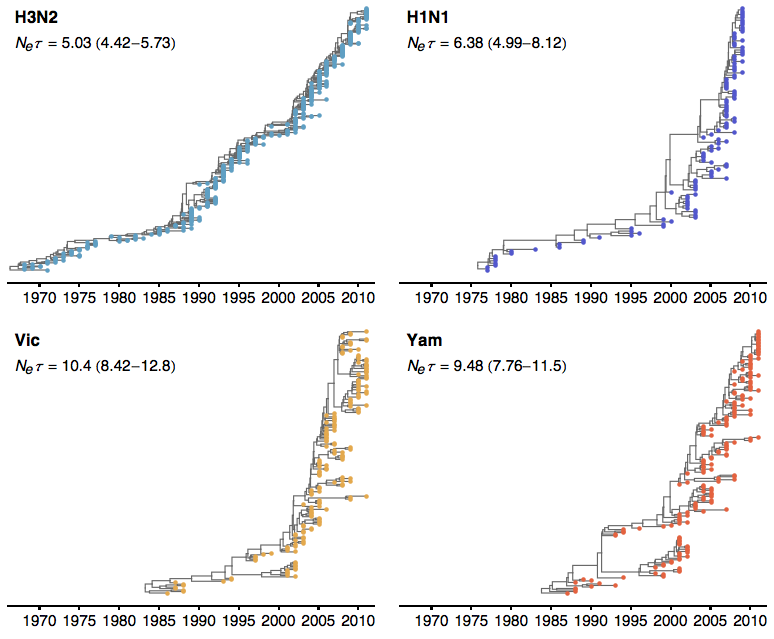
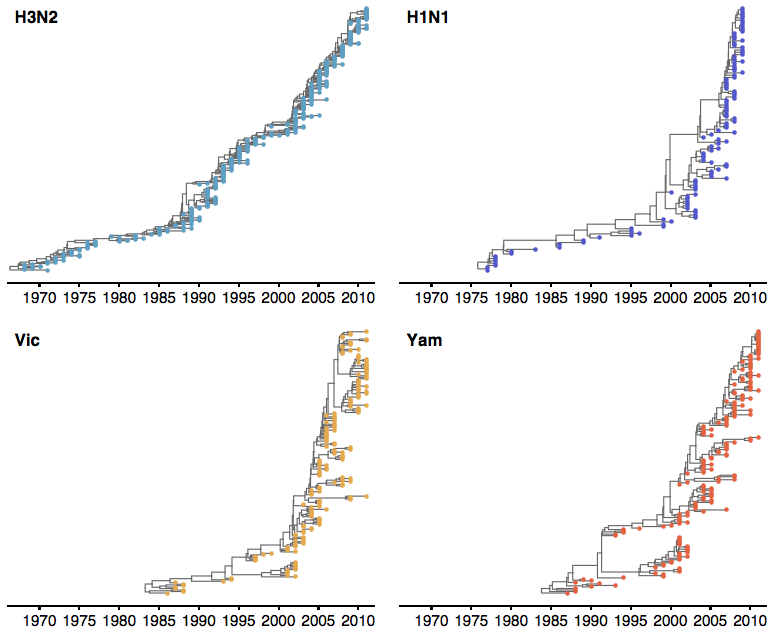
Work on issue #24, getting rid of branch-specific D.

diff --git a/flux.tex b/flux.tex
@@ -120,7 +120,7 @@ Influenza viruses undergo continual antigenic evolution allowing mutant viruses 
 Antigenic phenotype is often assessed through pairwise measurement of cross-reactivity between influenza strains using the hemagglutination inhibition (HI) assay.
 Here, we extend previous approaches to antigenic cartography, and simultaneously characterize antigenic and genetic evolution by modeling the diffusion of antigenic phenotype over a shared virus phylogeny.
 Using HI data from influenza A subtypes H3N2 and H1N1 and influenza B lineages Victoria and Yamagata, we determine patterns of antigenic drift across lineages and show that antigenic drift drives incidence rates and mediates interference between influenza lineages.
-Additionally, we describe the selective underpinnings of differences in antigenic drift across lineages.
+%Additionally, we describe the selective underpinnings of differences in antigenic drift across lineages.
 This work makes possible substantial future advances in investigating the dynamics of influenza and other antigenically-variable pathogens by providing a model that intimately combines molecular and antigenic evolution.
 
 \end{abstract}
@@ -287,7 +287,7 @@ Because of the threshold of sensitivity of the HI assay, it's difficult to disti
 To solve this problem of identifiability, we assumed a weak prior that favors linear movement in the 2D antigenic space (present in models 6 through 9; Table \ref{errortable}), with the slope of the linear relationship and the precision of the relationship incorporated into the Bayesian model (see Materials and methods).
 Because of this, we interpret map locations locally rather than globally, and assess rates of antigenic movement without making strong statements about the larger configuration under which the movement occurs.
  
-We find that influenza A/H3N2 evolved along antigenic dimension 1 at a rate of 1.01 antigenic units per year, with a 95\% highest posterior density (HPD) interval of 0.98--1.04 (Figure~\ref{drift}).
+We find that influenza A/H3N2 evolved along antigenic dimension 1 at an estimated rate of 1.01 antigenic units per year (Figure~\ref{drift}, Table~\ref{drifttable}).
 However, we observe occasional large jumps in antigenic phenotype (Figure~\ref{drift}), corresponding to cluster transitions identified by Smith et al. \cite{Smith04}.  
 Most variation is contained within the first antigenic dimension, but dimension 2 occasionally shows variation when two antigenically distinct lineages emerge and transiently coexist (Figure~\ref{map}), as is the case with the previously identified Beijing/89 and Beijing/92 clusters.
 
@@ -305,17 +305,35 @@ Most variation is contained within the first antigenic dimension, but dimension 
 	\label{drift} 
 \end{figure}
 
-We find that other clades of influenza evolved in antigenic phenotype substantially slower than A/H3N2 (Figure~\ref{drift}).
-Influenza A/H1N1 evolved at a rate of 0.62 units per year (HPD 0.56--0.67), but showing a similar pattern of punctuated antigenic evolution with occasional larger jumps in phenotype, such as the emergence of the Solomon Islands/06 cluster.  
-Influenza B/Victoria also evolved relatively slowly, with an average rates of 0.42 (HPD 0.32--0.51) units per year.
-Influenza B/Yamagata evolved slower still, with an average rate of 0.32 (HPD 0.25--0.39) units per year.
+We find that other clades of influenza evolved in antigenic phenotype substantially slower than A/H3N2 (Figure~\ref{drift}, Table~\ref{paramtable}).
+Influenza A/H1N1 evolved at a rate of 0.62 units per year, but showed a similar pattern of punctuated antigenic evolution with occasional larger jumps in phenotype, such as the emergence of the Solomon Islands/06 cluster.  
+Influenza B/Victoria and B/Yamagata evolved slower still, with mean estimated rates 0.42 units per year and 0.32 units per year, respectively.
 Punctuated evolution is less obvious in B/Yam and B/Vic compared to A/H3N2 and A/H1N1, but antigenic clusters are still apparent, with recent transitions to the Brisbane/08 cluster in B/Vic \cite{Barr10} and to the Wisconsin/10 cluster in B/Yam \cite{Klimov12}.
 Interestingly, a minor lineage of B/Vic, denoted B/Hubei-Songzi/51/2008 \cite{Barr10}, has persisted through 2011, while remaining antigenically distinct from B/Brisbane/60/2008 viruses (Figure~\ref{drift}).
+Interestingly, although we observe significantly different drift rates between lineages, we observe less variation in diffusion volatility (Table~\ref{paramtable}).
+This is reflected in Figure \ref{drift}, where all four lineages exhibit similar levels of standing antigenic variation, despite A/H3N2 drifting more quickly in antigenic phenotype.
+
+%%% paramtable %%%
+\begin{table}[h]
+	\centering
+	\caption{\textbf{Estimates of drift rate $\drift$ (in units per year), diffusion volatility $\virussd^2$ (in units$^2$ per year) and scaled effective population size $N_e\tau$ (in years) for influenza A/H3N2, A/H1N1, B/Vic and B/Yam including posterior means and 95\% highest posterior density intervals.}}
+	\label{paramtable}	
+	\begin{tabular}{ c c c c} 
+	\hline
+	Lineage	&	Drift $\drift$  	& 	Volatility $\virussd^2$	&	Effective pop size $N_e\tau$	\\
+	\hline		
+	A/H3N2	&	1.01 (0.98--1.04)	&	1.25 (0.98--2.35) 		&	5.03 (4.42--5.73)	\\
+	A/H1N1	&	0.62 (0.56--0.67)	&	0.92 (0.65--1.56) 		&	6.38 (4.99--8.12)	\\
+	B/Vic	&	0.42 (0.32--0.51)	&	1.22 (0.85--2.25) 		&	10.40 (8.42--12.80)	\\
+	B/Yam	&	0.32 (0.25--0.39)	&	0.71 (0.46--1.36) 		&	9.48 (7.76--11.50)	\\
+	\hline
+	\end{tabular}	
+\end{table}
 
 These patterns of antigenic drift are reflected in the virus phylogenies (Figure~\ref{trees}).
 Influenza A/H3N2 has characteristically spindly tree showing rapid turnover of the virus population, while A/H1N1 and B have trees that show greater degrees of viral coexistance (Figure~\ref{trees}).
 The scaled effective population size $N_e \tau$ measures the timescale of coalescence for a phylogeny and quantifies the visual distinction between a `spindly' tree and a `bushy' tree \cite{Bedford11}.
-Here, we see that $N_e \tau$ broadly correlates with the rate of antigenic drift with A/H3N2 showing fast drift and reduced effective population size (Figure~\ref{trees}), as expected from basic epidemiological models \cite{Bedford12}.
+Here, we see that $N_e \tau$ broadly correlates with the rate of antigenic drift (Table~\ref{paramtable}), with A/H3N2 showing fast drift and reduced effective population size as expected from basic epidemiological models \cite{Bedford12}.
 Antigenic drift results in the replacement of antigenically primitive lineages by antigenically advanced lineages, thereby reducing genealogical diversity.
 
 
@@ -423,52 +441,52 @@ Furthermore, these findings suggest that the predominant clade of a particular i
 However, this prediction would not be perfect, and 56\% of the variance in incidence remains unexplained by these estimates of antigenic drift.
 Some of this variance may be explained by incorporating geographic variation in year-to-year antigenic drift; although there exists significant geographic variation in clade-specific incidence \cite{Finkelman07}, we calculated antigenic drift from global samples, rather than USA-specific samples.
 
-\subsection*{Conversion of antigenic mutation into fixed differences}
+%\subsection*{Conversion of antigenic mutation into fixed differences}
 
-We observe a faster rate of antigenic drift in influenza A/H3N2 than in A/H1N1 or in either lineage of influenza B.
-Previous work using general epidemiological models has suggested that rates of antigenic drift may be influenced by both the fundamental reproductive number $R_0$ and the rate at which mutation decreases cross-immunity \cite{Gog02,Lin03}.
-Owing to these and similar findings, subsequent work ascribed differences in the evolution of A/H3N2 relative to A/H1N1 and influenza B to either greater $R_0$ or greater mutation rate \cite{Ferguson03,Bedford12}.
-Here, we examine the conversion of recently acquired antigenic mutation into fixed differences by comparing rates of antigenic diffusion to the degree of persistence on phylogeny branches in A/H3N2, A/H1N1, B/Vic and B/Yam (Table~\ref{diffusiontable}).
-To facilitate comparisons, we measure the diffusion coefficient $D$ \cite{Pybus12} characterizing the antigenic movement of each influenza lineage (see Materials and methods).
-This coefficient is measured in terms of units$^2$/year and can be used to determine the diffusion length scale, that is the expected relationship between time and distance traveled, which is $2 \sqrt{t D}$ for a two-dimensional diffusion.
-Higher diffusion coefficients mean a lineage is diffusing faster through antigenic space.
-We compare diffusion coefficients between trunk branches and side branches, where trunk branches are defined as branches ancestral to the most recent virus sample and side branches are defined as those branches not ancestral to the most recent virus sample.
+%We observe a faster rate of antigenic drift in influenza A/H3N2 than in A/H1N1 or in either lineage of influenza B.
+%Previous work using general epidemiological models has suggested that rates of antigenic drift may be influenced by both the fundamental reproductive number $R_0$ and the rate at which mutation decreases cross-immunity \cite{Gog02,Lin03}.
+%Owing to these and similar findings, subsequent work ascribed differences in the evolution of A/H3N2 relative to A/H1N1 and influenza B to either greater $R_0$ or greater mutation rate \cite{Ferguson03,Bedford12}.
+%Here, we examine the conversion of recently acquired antigenic mutation into fixed differences by comparing rates of antigenic diffusion to the degree of persistence on phylogeny branches in A/H3N2, A/H1N1, B/Vic and B/Yam (Table~\ref{diffusiontable}).
+%To facilitate comparisons, we measure the diffusion coefficient $D$ \cite{Pybus12} characterizing the antigenic movement of each influenza lineage (see Materials and methods).
+%This coefficient is measured in terms of units$^2$/year and can be used to determine the diffusion length scale, that is the expected relationship between time and distance traveled, which is $2 \sqrt{t D}$ for a two-dimensional diffusion.
+%Higher diffusion coefficients mean a lineage is diffusing faster through antigenic space.
+%We compare diffusion coefficients between trunk branches and side branches, where trunk branches are defined as branches ancestral to the most recent virus sample and side branches are defined as those branches not ancestral to the most recent virus sample.
 
 %%% diffusiontable %%%
-\begin{table}[h]
-	\centering
-	\caption{\textbf{Estimates of fundamental diffusion coefficient $D$ across influenza lineages and phylogenetic branches, including posterior means and 50\% highest posterior density intervals.}}
-	\label{diffusiontable}	
-	\begin{tabular}{ c c c c } 
-	\hline
-	Lineage	&	Trunk branch $D$ 	& 	Side branch $D$		& 	Ratio \\
-	\hline		
-	A/H3N2	&	0.90 (0.79--0.97)	&	0.62 (0.57--0.65)	&	1.45 (1.31--1.57) \\
-	A/H1N1	&	0.62 (0.50--0.71)	&	0.44 (0.38--0.48)	&	1.45 (1.18--1.70) \\
-	B/Vic	&	0.63 (0.51--0.71)	&	0.62 (0.54--0.68)	&	1.02 (0.87--1.14) \\
-	B/Yam	&	0.35 (0.29--0.40)	&	0.33 (0.28--0.36)	&	1.09 (0.93--1.23) \\
-	\hline
-	\end{tabular}	
-\end{table}
+%\begin{table}[h]
+%	\centering
+%	\caption{\textbf{Estimates of fundamental diffusion coefficient $D$ across influenza lineages and phylogenetic branches, including posterior means and 50\% highest posterior density intervals.}}
+%	\label{diffusiontable}	
+%	\begin{tabular}{ c c c c } 
+%	\hline
+%	Lineage	&	Trunk branch $D$ 	& 	Side branch $D$		& 	Ratio \\
+%	\hline		
+%	A/H3N2	&	0.90 (0.79--0.97)	&	0.62 (0.57--0.65)	&	1.45 (1.31--1.57) \\
+%	A/H1N1	&	0.62 (0.50--0.71)	&	0.44 (0.38--0.48)	&	1.45 (1.18--1.70) \\
+%	B/Vic	&	0.63 (0.51--0.71)	&	0.62 (0.54--0.68)	&	1.02 (0.87--1.14) \\
+%	B/Yam	&	0.35 (0.29--0.40)	&	0.33 (0.28--0.36)	&	1.09 (0.93--1.23) \\
+%	\hline
+%	\end{tabular}	
+%\end{table}
 
-Mutations must proceed through the sieve of natural selection, first appearing as transient differences restricted to side branches, while advantageous mutations will preferentially fix in the virus population and thus accrue on the trunk of the phylogeny.
-We expect the diffusion coefficient on side branches to more closely resemble the underlying rate of antigenic mutation, before selection can strongly influence observed rates.
-Here, we find that A/H3N2 and B/Vic have similar diffusion coefficients on side branches, which are larger than the diffusion coefficients of A/H1N1 and B/Yam (Table~\ref{diffusiontable}).
-Thus, we expect that new antigenic mutations may occur at a faster rate in A/H3N2 and B/Vic than in A/H1N1 or B/Yam.
-We find that trunk branches in both A/H3N2 and A/H1N1 evolve in antigenic phenotype faster than side branches (Table~\ref{diffusiontable}), suggesting that positive selection is promoting antigenic movement in these lineages.
-Interestingly, B/Vic and B/Yam show less of a signature of positive selection, with similar diffusion coefficients on trunk and side branches (Table~\ref{diffusiontable}).
-Thus, although drift forward along dimension 1 is driven by selection in all lineages (Figure~\ref{drift}), raw antigenic diffusion appears to be selected for more strongly in influenza A than in influenza B, giving influenza A an advantage in overall rate of antigenic drift.
-Additionally, it appears that A/H3N2 and B/Vic benefit from a greater influx of new antigenic mutations, giving them a similar advantage over their sister lineages A/H1N1 and B/Yam, respectively.
+%Mutations must proceed through the sieve of natural selection, first appearing as transient differences restricted to side branches, while advantageous mutations will preferentially fix in the virus population and thus accrue on the trunk of the phylogeny.
+%We expect the diffusion coefficient on side branches to more closely resemble the underlying rate of antigenic mutation, before selection can strongly influence observed rates.
+%Here, we find that A/H3N2 and B/Vic have similar diffusion coefficients on side branches, which are larger than the diffusion coefficients of A/H1N1 and B/Yam (Table~\ref{diffusiontable}).
+%Thus, we expect that new antigenic mutations may occur at a faster rate in A/H3N2 and B/Vic than in A/H1N1 or B/Yam.
+%We find that trunk branches in both A/H3N2 and A/H1N1 evolve in antigenic phenotype faster than side branches (Table~\ref{diffusiontable}), suggesting that positive selection is promoting antigenic movement in these lineages.
+%Interestingly, B/Vic and B/Yam show less of a signature of positive selection, with similar diffusion coefficients on trunk and side branches (Table~\ref{diffusiontable}).
+%Thus, although drift forward along dimension 1 is driven by selection in all lineages (Figure~\ref{drift}), raw antigenic diffusion appears to be selected for more strongly in influenza A than in influenza B, giving influenza A an advantage in overall rate of antigenic drift.
+%Additionally, it appears that A/H3N2 and B/Vic benefit from a greater influx of new antigenic mutations, giving them a similar advantage over their sister lineages A/H1N1 and B/Yam, respectively.
 
-In this context, it is especially interesting that adaptive evolution in the HA1 protein determined through analysis of nonsynonymous and synonymous substitutions is substantially stronger in A/H3N2 than in A/H1N1 \cite{Wolf06}; H3 appears to accumulate adaptive fixations at $\sim$150\% the rate of H1 \cite{Bhatt11}.
-Here, we observe that A/H3N2 has a diffusion coefficient $\sim$141\% greater than A/H1N1 along side branches of the phylogeny.
-These results suggest that the greater rate of adaptive fixation in A/H3N2 may be simply due to a greater abundance of new antigenic mutations to fix.
+%In this context, it is especially interesting that adaptive evolution in the HA1 protein determined through analysis of nonsynonymous and synonymous substitutions is substantially stronger in A/H3N2 than in A/H1N1 \cite{Wolf06}; H3 appears to accumulate adaptive fixations at $\sim$150\% the rate of H1 \cite{Bhatt11}.
+%Here, we observe that A/H3N2 has a diffusion coefficient $\sim$141\% greater than A/H1N1 along side branches of the phylogeny.
+%These results suggest that the greater rate of adaptive fixation in A/H3N2 may be simply due to a greater abundance of new antigenic mutations to fix.
 
-We suggest that the larger signal of positive selection for antigenic diffusion in influenza A relative to influenza B could be due to either a greater fundamental reproductive number $R_0$ or to pleiotropic effects associated with antigenic change.
-In the latter case, we expect that many antigenic variants may be at an inherent disadvantage against other strains from decreased protein function \cite{Kaverin04,Rudneva12} or other effects, even though they benefit from a transmission advantage mediated by host immunity.
-These mutations may not be promoted by natural selection to the same extent as antigenic variants that maintain functional equivalence.
-Additionally, other work has shown strong pleiotropic constraints in the evolution of oseltamivir resistance in A/H1N1 \cite{Bloom10}.
-Still, it is clear that more work is necessary to fully clarify the mechanistic underpinnings of the relative evolutionary success of different influenza lineages.
+%We suggest that the larger signal of positive selection for antigenic diffusion in influenza A relative to influenza B could be due to either a greater fundamental reproductive number $R_0$ or to pleiotropic effects associated with antigenic change.
+%In the latter case, we expect that many antigenic variants may be at an inherent disadvantage against other strains from decreased protein function \cite{Kaverin04,Rudneva12} or other effects, even though they benefit from a transmission advantage mediated by host immunity.
+%These mutations may not be promoted by natural selection to the same extent as antigenic variants that maintain functional equivalence.
+%Additionally, other work has shown strong pleiotropic constraints in the evolution of oseltamivir resistance in A/H1N1 \cite{Bloom10}.
+%Still, it is clear that more work is necessary to fully clarify the mechanistic underpinnings of the relative evolutionary success of different influenza lineages.
 
 %%% CONCLUSIONS %%%
 \section*{Conclusions}
@@ -738,50 +756,50 @@ Then, for each interval, $x$ and $y$ values are averaged across the sample of po
 We draw lines between these locations to approximate mean posterior diffusion paths.
 As virus lineages coalesce backwards through time down the phylogeny these diffusion paths will also coalesce.
 
-\subsection*{Estimation of diffusion coefficient}
+%\subsection*{Estimation of diffusion coefficient}
 
-The distance $d$ traveled by a diffusion is not a linear function of time interval $t$, and thus the `rate' of diffusion cannot be calculated following $r=d/t$.
-Assume we have a one-dimensional diffusion starting from $x_0 = 0$, so that
-\begin{equation}
-	X_t \sim \normal(0, \sigma^2 t),
-\end{equation}
-where $\sigma$ represents the diffusion volatility, and in this case, the expected squared displacement follows
-\begin{equation}
-	\mathrm{E}[X_t^2] = \sigma^2 t.
-\end{equation}
-In moving to a two-dimensional diffusion
-\begin{equation}
-	(X_t, Y_t) \sim \normal \left( \twomatrix{0}{0}, \fourmatrix{\sigma_x^2 t}{\rho \sigma_x \sigma_y t}{\rho \sigma_x \sigma_y t}{\sigma_y^2 t} \right),
-\end{equation}
-where $\sigma_x$ represents volatility in dimension 1, $\sigma_y$ represents volatility in dimension 2 and $\rho$ represents correlation,   expected squared displacement is equal to the sum of squared displacements in each dimension
-\begin{equation}
-	\mathrm{E}[X_t^2 + Y_t^2] = \sigma_x^2 t + \sigma_y^2 t.
-\end{equation}
-Such diffusions are often characterized with diffusion coefficient $D$.
-In this case
-\begin{equation}
-	D = \frac{\sigma_x^2 + \sigma_y^2}{4},
-\end{equation}
-so that expected squared displacement follows from $D$ alone
-\begin{equation}
-	\mathrm{E}[X_t^2 + Y_t^2] = 4 D t.
-\end{equation}
+%The distance $d$ traveled by a diffusion is not a linear function of time interval $t$, and thus the `rate' of diffusion cannot be calculated following $r=d/t$.
+%Assume we have a one-dimensional diffusion starting from $x_0 = 0$, so that
+%\begin{equation}
+%	X_t \sim \normal(0, \sigma^2 t),
+%\end{equation}
+%where $\sigma$ represents the diffusion volatility, and in this case, the expected squared displacement follows
+%\begin{equation}
+%	\mathrm{E}[X_t^2] = \sigma^2 t.
+%\end{equation}
+%In moving to a two-dimensional diffusion
+%\begin{equation}
+%	(X_t, Y_t) \sim \normal \left( \twomatrix{0}{0}, \fourmatrix{\sigma_x^2 t}{\rho \sigma_x \sigma_y t}{\rho \sigma_x \sigma_y t}{\sigma_y^2 t} \right),
+%\end{equation}
+%where $\sigma_x$ represents volatility in dimension 1, $\sigma_y$ represents volatility in dimension 2 and $\rho$ represents correlation,   expected squared displacement is equal to the sum of squared displacements in each dimension
+%\begin{equation}
+%	\mathrm{E}[X_t^2 + Y_t^2] = \sigma_x^2 t + \sigma_y^2 t.
+%\end{equation}
+%Such diffusions are often characterized with diffusion coefficient $D$.
+%In this case
+%\begin{equation}
+%	D = \frac{\sigma_x^2 + \sigma_y^2}{4},
+%\end{equation}
+%so that expected squared displacement follows from $D$ alone
+%\begin{equation}
+%	\mathrm{E}[X_t^2 + Y_t^2] = 4 D t.
+%\end{equation}
 
-Owing to this relationship, Pybus et al.\ \cite{Pybus12} estimate $D$ from phylogenies in which internal nodes have inferred 2D locations via the formula
-\begin{equation} \label{pybusest}
-	\hat{D} = \frac{1}{n} \sum^n_{i=1} \frac{d_i^2}{4t_i},
-\end{equation}
-in which $d_i$ represents the displacement of a branch and $t_i$ represents the length of a branch.
-However, uncertainty in $d_i$ or $t_i$, especially along short branches of the phylogeny, may cause $d_i^2/4t_i$ to have high variance and increase uncertainty in the resulting estimates of $D$.
-Consequently, we estimate $D$ by looking at the relationship between total squared displacement and total time along branches of a phylogeny
-\begin{eqnarray} \label{ourest}
-	d^2_\Sigma &=& \sum^n_{i=1} d^2_i \nonumber \\
-	t_\Sigma &=& \sum^n_{i=1} t_i \nonumber \\
-	\hat{D} &=& \frac{ d^2_\Sigma }{ 4 t_\Sigma }.
-\end{eqnarray}
-This estimator showed less variance than equation \ref{pybusest} when analyzing tree output from the BMDS model and was thus preferred.
-Additionally, we confirmed through simple simulation that estimator \ref{ourest} shows lower mean squared error than estimator \ref{pybusest} in the presence of modest levels of noise on estimates of $d_i$ and $t_i$.
-When estimating $D$ specific to trunk branches or specific to side branches, we calculate $d^2_\Sigma$ and $t_\Sigma$ only from a subset of phylogeny branches as appropriate.
+%Owing to this relationship, Pybus et al.\ \cite{Pybus12} estimate $D$ from phylogenies in which internal nodes have inferred 2D locations via the formula
+%\begin{equation} \label{pybusest}
+%	\hat{D} = \frac{1}{n} \sum^n_{i=1} \frac{d_i^2}{4t_i},
+%\end{equation}
+%in which $d_i$ represents the displacement of a branch and $t_i$ represents the length of a branch.
+%However, uncertainty in $d_i$ or $t_i$, especially along short branches of the phylogeny, may cause $d_i^2/4t_i$ to have high variance and increase uncertainty in the resulting estimates of $D$.
+%Consequently, we estimate $D$ by looking at the relationship between total squared displacement and total time along branches of a phylogeny
+%\begin{eqnarray} \label{ourest}
+%	d^2_\Sigma &=& \sum^n_{i=1} d^2_i \nonumber \\
+%	t_\Sigma &=& \sum^n_{i=1} t_i \nonumber \\
+%	\hat{D} &=& \frac{ d^2_\Sigma }{ 4 t_\Sigma }.
+%\end{eqnarray}
+%This estimator showed less variance than equation \ref{pybusest} when analyzing tree output from the BMDS model and was thus preferred.
+%Additionally, we confirmed through simple simulation that estimator \ref{ourest} shows lower mean squared error than estimator \ref{pybusest} in the presence of modest levels of noise on estimates of $d_i$ and $t_i$.
+%When estimating $D$ specific to trunk branches or specific to side branches, we calculate $d^2_\Sigma$ and $t_\Sigma$ only from a subset of phylogeny branches as appropriate.
 
 \subsection*{Comparison with previous results}
 

diff --git a/response.tex b/response.tex
@@ -243,6 +243,8 @@ Likewise, in Fig. 5, the negative correlation between drift in different clades 
 
 I found the section fitting diffusion coefficients (in different branches) to the antigenic maps confusing -- if only because strict diffusion (in one or two dimensions) has no advection term and therefore no tendency to move in one direction or another; whereas the data clearly show an advective tendency (moving to the ``right'' over time in antigenic dimension 1). I presume the authors attempt to deal with this by imposing a prior (eq 12) for the location of a virus based on its location in a molecular phylogeny. But this would seem to conflate antigenic drift, which the authors wish to quantify using a diffusion coefficient, with genetic mutations (many of which are driven by selection for antigenic escape). In other words, this hybrid approach of assuming a prior based on a strain's genotype, and then fitting a diffusion coefficient to summarize strength of drift, does not seem to to be a pure measure of drift. What exactly the fitted diffusion coefficient means is extremely unclear to me, in any formal sense, as the procedure is so ad-hoc.
 
+\textbf{Text here.}
+
 How do the antigenic maps shown compare to BMDS applied to pairwise aa hamming distances alone? How many serious discrepancies that are outside the confidence intervals on map reconstruction? In other words, the authors should demonstrate that the HI data actually provide substantively different results for antigenic grouping than genetic data do alone. This was an important contention of Smith et al (2004), but it was based on the position of only a handful of viruses in that paper. Do the authors have more convincing evidence in this study that the antigenic data are providing substantial extra information beyond the genetic data?
 
 \textbf{We have revised the manuscript to include a thorough analysis of the relationship between genetic distance and antigenic distance.  This is new figure 1.  Rather than constructing BMDS maps with pairwise AA distances, we take a more direct approach and compare pairwise antigenic distance from a BMDS model using only HI data (model 2 in Table 1) and pairwise genetic distances.  We examine both pairwise AA distance and pairwise phylogenetic distance, as phylogenetic distance was the basis for our evolutionary diffusion model.  We find fairly modest correlations in most cases case (between 0.10 for B/Yam and 0.68 for A/H3N2).  Genetic data provides some predictive power for antigenic distance, but is a rather weak predictor alone.  This was a big part of our rationale for attempting a joint genetic / antigenic model.}
